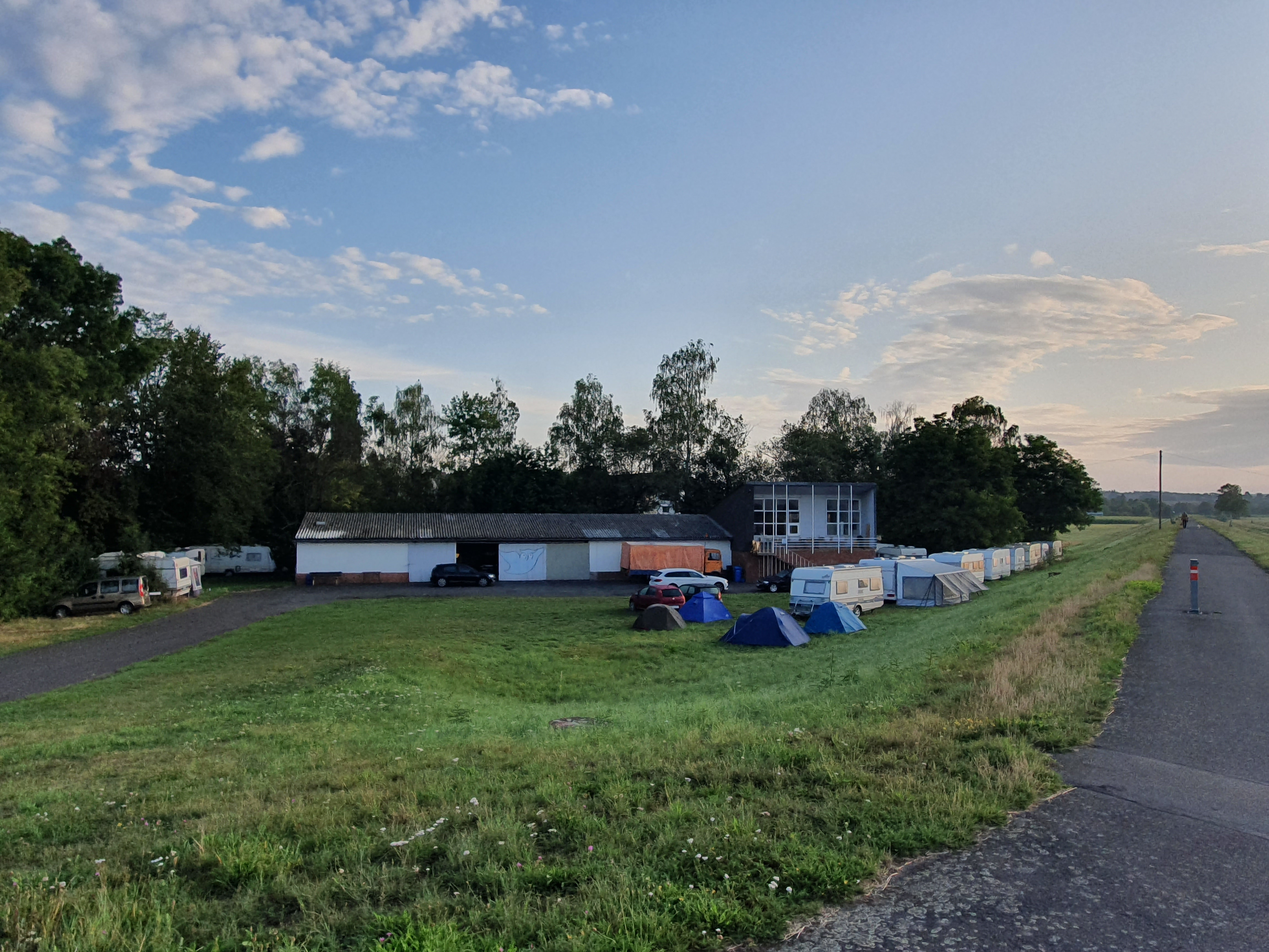
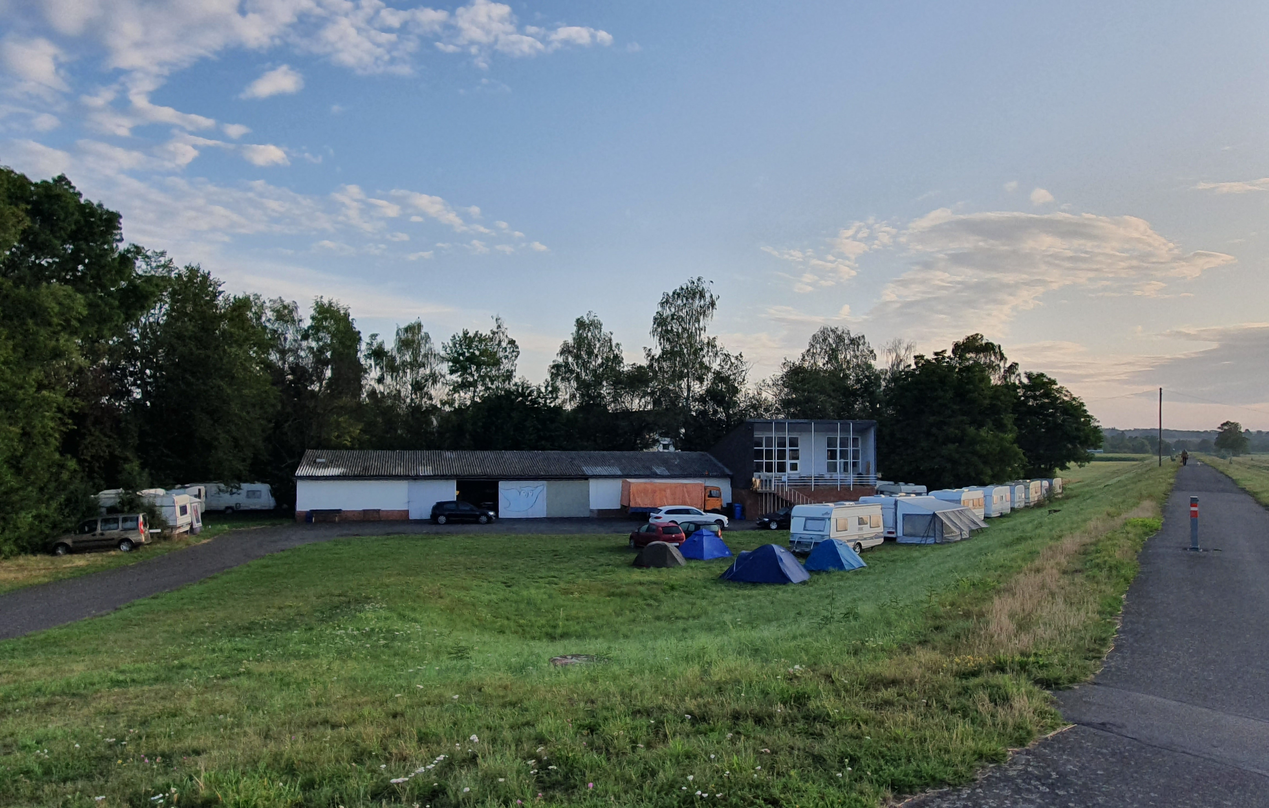
Add images to sommerkurs

diff --git a/content/home/sommerkurs.md b/content/home/sommerkurs.md
@@ -4,7 +4,7 @@ date: 2019-03-14T15:47:53+01:00
 background: "wiese2.jpg"
 draft: false
 ---
-{{% image_right "/img/home/start_leppo.JPG" %}}
+{{% image_right "/img/sommerkurs/start_leppo.JPG" %}}
 Jedes Jahr nach Ende des Sommersemesters bieten wir einen zweiwöchigen Kurs an, um Interessierten einen Einstieg in den Segelflugsport bieten zu können.<br/>Es sind **keine theoretischen oder praktischen Vorkenntnisse nötig!**<br/>
 Ziel ist, die Basis für den ersten Alleinflug zu legen - unter günstigen Bedingungen ist **der erste Soloflug bereits zum Ende des Kurses möglich**, sonst kann er im Rahmen der regulären [Wochenendschulung](/ueber_uns/flugbetrieb/#wochenendschulung) bis zum Saisonende absolviert werden.
 
@@ -58,7 +58,9 @@ ___
 
 # Kursinformationen
 
+{{% image_right "/img/sommerkurs/unterkunft_sommerkurs.jpg" %}}
 Es besteht die Möglichkeit, vor der Unterkunft zu zelten. In begrenzter Zahl gibt es auch Übernachtungsmöglichkeiten in der Unterkunft (Schlafsack mitbringen!), sodass für die Unterbringung keine Kosten anfallen. Für Verpflegung fallen noch einmal gut 80 Euro an. Für das Essen seid Ihr dabei selber zuständig: täglich werden zwei Kursteilnehmer „auserkoren“, die gesamte Mannschaft zu verpflegen. Auch das klappt in der Regel recht gut. Da wir Euch an Kurstagen von morgens bis abends auf Trab halten, werdet Ihr kaum Gelegenheit haben, anderweitig Geld auszugeben.
+{{% /image_right %}}
 
 Um am Ende des Kurses alleine fliegen zu dürfen, müsst Ihr in einer ärztlichen Untersuchung Eure Tauglichkeit nachweisen. Ohne diesen Nachweis könntet Ihr zwar am Kurs teilnehmen, aber wir dürften Euch, auch wenn die Fluglehrer von Eurer Fähigkeit überzeugt sind, nicht alleine fliegen lassen. Es empfiehlt sich daher, die entsprechende Prüfung vor dem Kurs durchzuführen, denn es wäre tragisch, wenn Ihr nach dem Schnupperkurs zwar begeistert fliegt, aber aus medizinischen Gründen nicht weitermachen könnt.
 <br>Die Untersuchung besteht aus einem Sehtest, der deutlich aufwendiger ist als zum Beispiel für den Führerschein. Eine Brille ist dabei kein Hindernis. Weiter überprüft der Arzt in einem Blut- und Leistungstest, ob irgendwelche hindernden Gründe vorliegen. Aber keine Angst, so wild ist das ganze nicht. Die „fliegerärztliche Untersuchung“ ('*Medical*') muss von einem speziellen Fliegerarzt durchgeführt werden; Adressen könnt Ihr bei uns erfragen.
